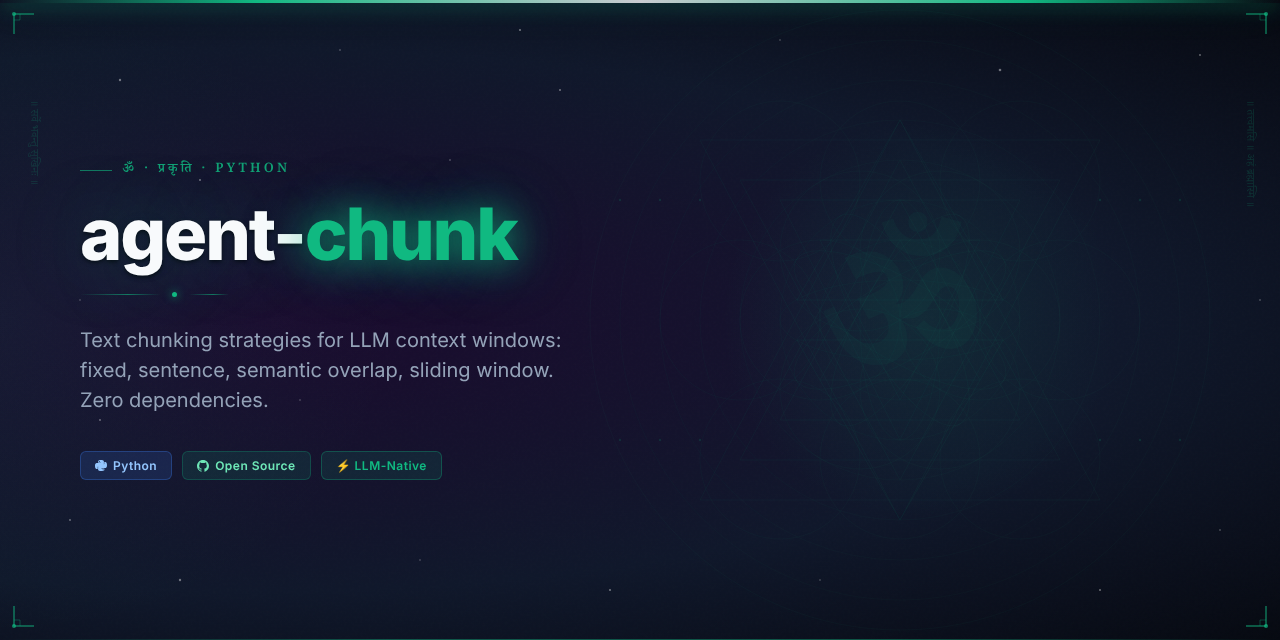
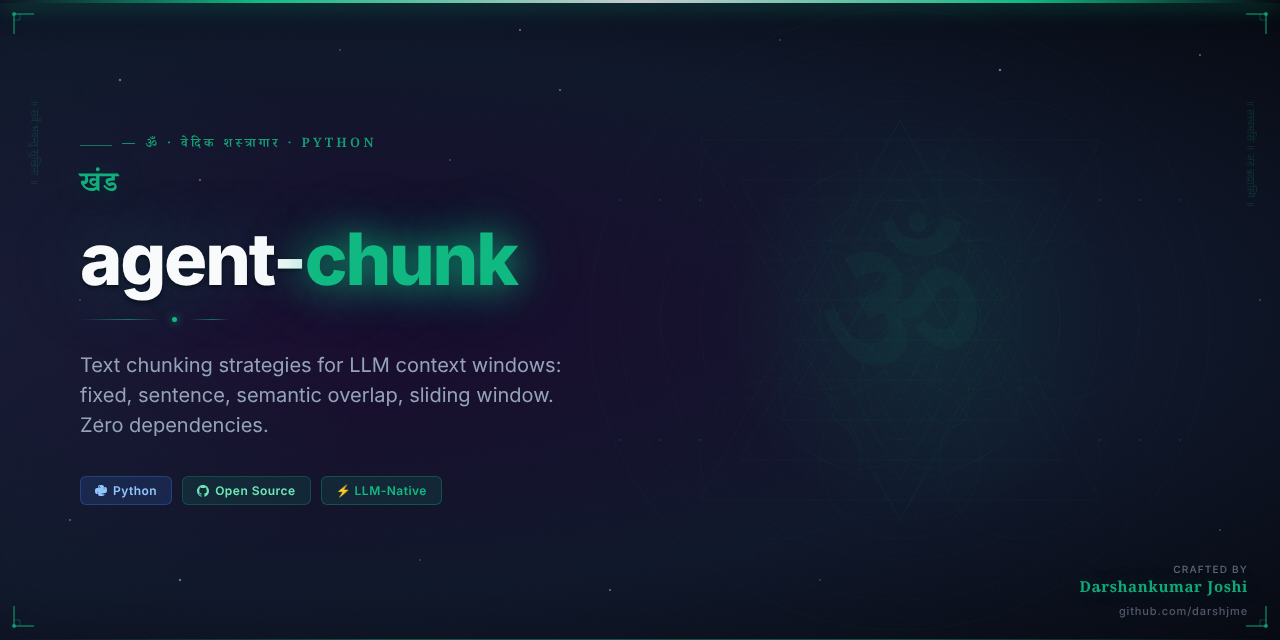
feat: add Vedic Arsenal hero image and updated README
Part of darshjme/arsenal — 100 production-grade Python libraries for LLM agents.
Vedic branding: ancient philosophy meets modern AI engineering.

diff --git a/README.md b/README.md
@@ -1,10 +1,12 @@
 <div align="center">
 
-<img src="assets/agent-chunk-hero.png" alt="agent-chunk — Vedic Arsenal" width="100%" />
+<img src="assets/agent-chunk-hero.png" alt="agent-chunk — Vedic Arsenal by Darshankumar Joshi" width="100%" />
 
 # 🌿 agent-chunk
 
-### *खंड* — Khanda — sacred division of the whole
+<h3><em>खंड</em></h3>
+
+> *Khanda — sacred division of the whole*
 
 **Text chunking strategies for LLM context windows: fixed, sentence, semantic overlap, sliding window. Zero dependencies.**
 
@@ -39,6 +41,19 @@ Or clone directly:
 git clone https://github.com/darshjme/agent-chunk.git
 cd agent-chunk
 pip install -e .
+```
+
+## How It Works
+
+```mermaid
+flowchart LR
+    A[Input] --> B[agent-chunk]
+    B --> C{Process}
+    C -- Success --> D[Output]
+    C -- Error --> E[Handle / Retry]
+    E --> B
+    style B fill:#6b21a8,color:#fff
+    note["Chunk — Zero Dependencies"]
 ```
 
 ## Quick Start
@@ -90,7 +105,7 @@ MIT — use freely, build freely.
 
 <div align="center">
 
-**Built with 🌿 by [Darshankumar Joshi](https://github.com/darshjme)**
+**Built with 🌿 by [Darshankumar Joshi](https://github.com/darshjme)** · [@thedarshanjoshi](https://twitter.com/thedarshanjoshi)
 
 *"कर्मण्येवाधिकारस्ते मा फलेषु कदाचन"*
 *Your right is to action alone, never to the fruits thereof.*
